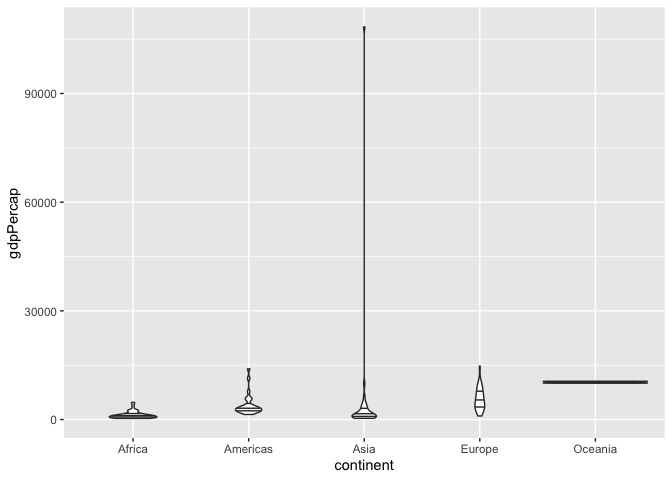
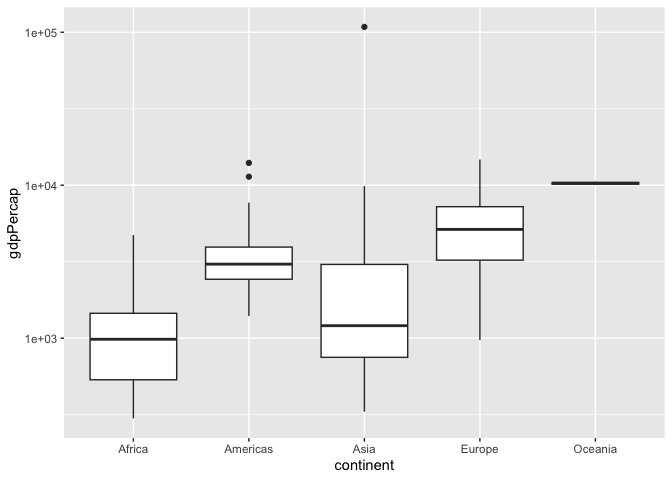
Redo challenge 4: q2, q4, and q5

diff --git a/challenges/c04-gapminder-assignment.md b/challenges/c04-gapminder-assignment.md
@@ -1,7 +1,7 @@
 Gapminder
 ================
 Lily Jiang
-2023-02-26
+2023-03-20
 
 - [Grading Rubric](#grading-rubric)
   - [Individual](#individual)
@@ -126,15 +126,12 @@ glimpse(gapminder)
 (Rather than the `$` notation of base R.)
 
 ``` r
-## TASK: Find the largest and smallest values of `year` in `gapminder`
 year_max <- gapminder %>%
-  filter(dense_rank(desc(year)) == 1) %>%
-  pull(year) %>%
-  unique()
+  summarize(year = max(year)) %>%
+  pull(year)
 year_min <- gapminder %>%
-  filter(dense_rank(year) == 1) %>%
-  pull(year) %>%
-  unique()
+  summarize(year = min(year)) %>%
+  pull(year)
 
 year_min
 ```
@@ -189,10 +186,10 @@ can.
 gapminder %>%
   filter(year == year_min) %>%
   ggplot() +
-  geom_violin(
-    aes(x = continent, y = gdpPercap),
-    draw_quantiles = c(0.25, 0.5, 0.75)
-  )
+  geom_boxplot(
+    aes(x = continent, y = gdpPercap)
+  ) +
+  scale_y_log10()
 ```
 
 ![](c04-gapminder-assignment_files/figure-gfm/q2-task-1.png)<!-- -->
@@ -201,7 +198,8 @@ gapminder %>%
 
 - Most of Africa’s countries have a low GDP per capita, which results in
   a skewed-right spread. The maximum GDP per capita for Africa is
-  actually the lowest out of all the continents.
+  actually the lowest out of the max GDP per capita for all the
+  continents.
 - The Americas have a skewed-right spread, with most of the points
   falling on the lower end of the GDP per capita spectrum. However, the
   values are slightly more spread out than in Africa, as indicated by
@@ -231,16 +229,18 @@ gapminder %>%
   realized this didn’t actually display the actual data because I wasn’t
   counting a sum of something for each continent; rather, each continent
   had multiple points that needed to be plotted on their own.
-- Thus, I switched to a boxplot. This immediately posed a challenge
-  because Asia had one HUGE outlier that was magnitudes higher than any
-  other point being plotted, causing the scale to zoom out quite a lot.
-  Thus, most of the interesting data was squashed into incomprehensible
-  rectangles at the bottom of the graph.
-- Lastly, I tried using a violin plot, as hopefully it would not show as
-  much overlap in everything. This ended up working the best, especially
-  when I added the `0.25, 0.5, 0.75` quartile lines to it to see the
-  mean and IQR range. Because the violin plot changes width based on the
-  approximate height, the general spread of values was more visible.
+- I tried using a regular boxplot and a violin plot. However, Asia had a
+  HUGE outlier that was magnitudes higher than any other point being
+  plotted, causing the scale to zoom out quite a lot. Thus, most of the
+  interesting data was squashed into incomprehensible rectangles at the
+  bottom of the graph. The violin plot was easier to see because some
+  information could be seen with the width of the plot, but still was
+  overall very hard to see.
+- Lastly, I tried using a logarithmic scale on the y axis. This was the
+  best solution, as it allowed me to (for the most part) clearly see the
+  quartiles. Except for Australia, which has consistently stayed as a
+  flat line, indicating that there is extremely little variation amongst
+  those points.
 
 ### **q3** You should have found *at least* three outliers in q2 (but possibly many more!). Identify those outliers (figure out which countries they are).
 
@@ -356,56 +356,76 @@ gapminder %>%
 variables; think about using different aesthetics or facets.
 
 ``` r
-gapminder %>%
-  filter(year == year_min) %>%
+subset(gapminder, year %in% c(year_max, year_min)) %>%
   ggplot(aes(x = continent, y = gdpPercap)) +
-  geom_violin(
-    draw_quantiles = c(0.25, 0.5, 0.75),
-    color = "red"
+  geom_boxplot(
+    aes(x = continent, y = gdpPercap, color = factor(year)),
+    position=position_dodge(width=.8)
   ) +
   geom_point(
-    data = . %>% filter(country %in% c("Kuwait", "United States", "Canada")),
-    mapping = aes(color = country),
+    data = . %>% filter(country == "Kuwait"),
+    aes(color = "Kuwait"),
+    position=position_dodge2(width=.8),
     size = 2
   ) +
-  coord_flip()
+  geom_point(
+    data = . %>% filter(country == "United States"),
+    aes(color = "United States"),
+    position=position_dodge2(width=.8),
+    size = 2
+  ) +
+  geom_point(
+    data = . %>% filter(country == "Canada"),
+    aes(color = "Canada"),
+    position=position_dodge2(width=.8),
+    size = 2
+  ) +
+  xlab("Country") + ylab("GDP Per Capita") +
+  scale_color_discrete(name="Year") +
+  coord_flip() +
+  scale_y_log10() +
+  labs(color = "Countries and Year") +
+  scale_color_manual(values = c("1952" = "#898121", "2007" = "#9E4784", "Kuwait" = "orange", "United States" = "blue", "Canada" = "red"))
 ```
+
+    ## Scale for colour is already present.
+    ## Adding another scale for colour, which will replace the existing scale.
 
 ![](c04-gapminder-assignment_files/figure-gfm/q4-task-1.png)<!-- -->
 
-``` r
-gapminder %>%
-  filter(year == year_max) %>%
-  ggplot(aes(x = continent, y = gdpPercap)) +
-  geom_violin(
-    draw_quantiles = c(0.25, 0.5, 0.75),
-    color = "blue"
-  ) +
-  geom_point(
-    data = . %>% filter(country %in% c("Kuwait", "United States", "Canada")),
-    mapping = aes(color = country),
-    size = 2
-  ) +
-  coord_flip()
-```
-
-![](c04-gapminder-assignment_files/figure-gfm/q4-task-2.png)<!-- -->
-
 **Observations**:
 
-- First, I realized that I could flip the coordinates to make the violin
-  plots slightly more readable than previously.
-- After plotting the countries and 3 outliers for `year_max` and
-  `year_min`, I realized that the same top outliers I found in the
-  `year_min` plot were roughly in the same place as in the `year_max`
-  plot. Kuwait and the US are at the maximums of Africa and the Americas
-  (respectively), and Canada is the second highest outlier of the
-  Americas.
-- I also noticed that the shapes of the plots between the two years are
-  VERY similar. With the exception of Europe, which had a bulge more on
-  the lower end in `year_min` but has the bulge on the upper end in
-  `year_max`, all of the continents maintain similar distributions
-  between the two years.
+- First, I realized that I could flip the coordinates to make the box
+  plots slightly more readable than previously. I also made sure to
+  continue using the log scale on the first plot, as there were again
+  huge outliers within the Asia dataset. I plotted the max and min year
+  on the same plot, but set position widths so the two years would sit
+  side by side. This allowed for direct comparisons between the two
+  years, while not covering any important information.
+- From q3, I identified the outlier countries to be Kuwait, the US, and
+  Canada. I specifically plotted these as individually-colored points on
+  top of the existing boxplots, which allowed me to clearly see where
+  they existed (basically, how much of an outlier they are).
+- Overall, the boxplots I made highlighted an important pattern: the GDP
+  per capita increased over time. For all the continents, the GDP per
+  capita is distinctively higher in 2007 than it is in 1952. This is
+  obvious because the means are higher, and also the overall boxes are
+  shifted more towards the right for 2007.
+- The boxplot shapes illustrate another general pattern. Except for
+  Europe, the spread of GDP per capitas is higher in 2007 than in 1952.
+  This is evident from the sizes of the boxes as well as the length of
+  the whiskers, which are noticeably larger in 2007 (except for in
+  Europe, where the boxes appear to be the same size and the whiskers
+  seem to be *smaller*).
+- For specific countries, the GDP per capita pattern I found across the
+  two years doesn’t necessarily exist. In particular, Kuwait’s GDP per
+  capita *decreased* from 1952 to 2007. Specifically plotting Kuwait as
+  an outlier helped me see this quickly.
+- The same countries I found as outliers in `year_min` were still
+  outliers in `year_max`. In fact, they appear to follow the same
+  “ordering” within their respective continent: Kuwait is the top
+  outlier for Asia, and in the Americas, the US is the top outlier while
+  Canada is the second-highest.
 
 # Your Own EDA
 
@@ -430,9 +450,9 @@ gapminder %>%
 
 - Oceania, much like with the GDP per capita plot, has a very narrow
   range of values compared to the rest of the continents.
-- The order of mean life expectancies, from highest to lowest, is:
+- The order of median life expectancies, from highest to lowest, is:
   Oceania, Europe, Americas, Asia, Africa. This is very similar to the
-  ordering of mean GDP per capitas for `year_min`.
+  ordering of median GDP per capitas for `year_min`.
 - Only Europe and Africa have outliers. Europe’s outliers is on the
   lower end, while Africa’s outlier is on the upper end.
 
